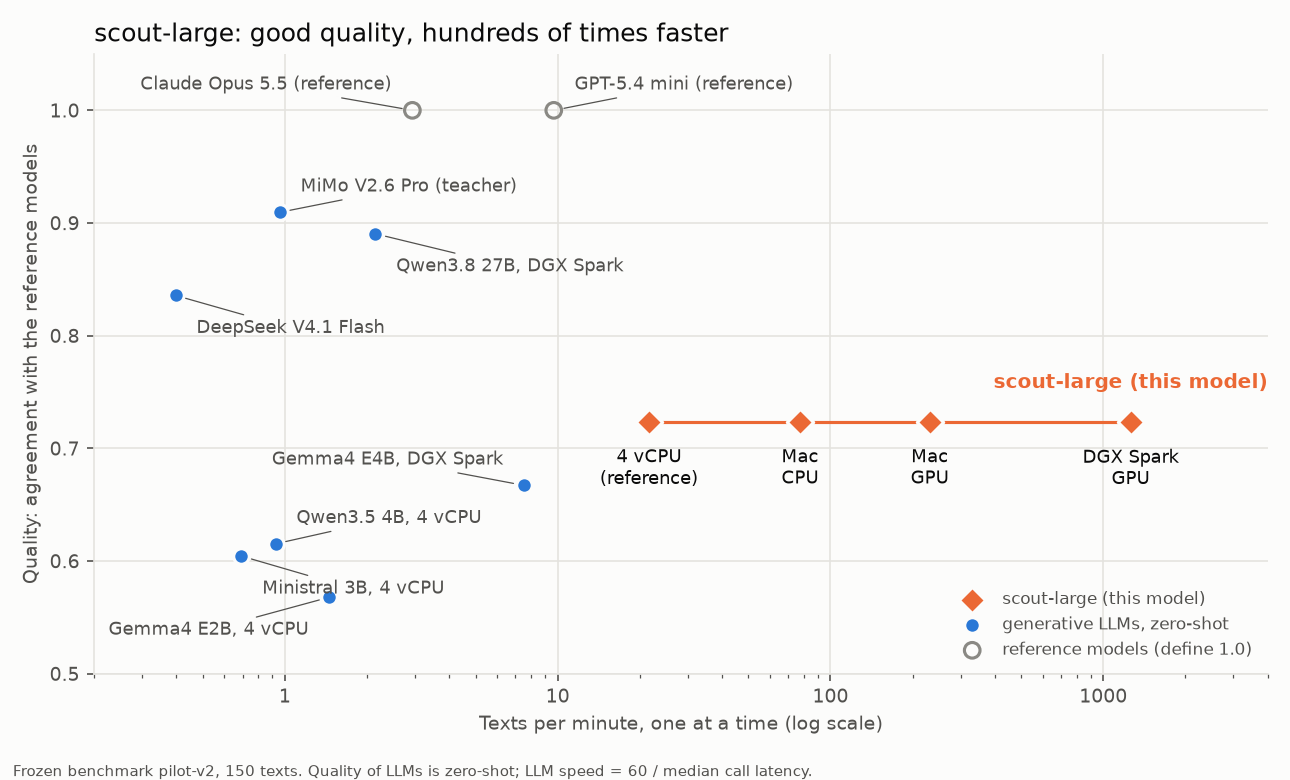
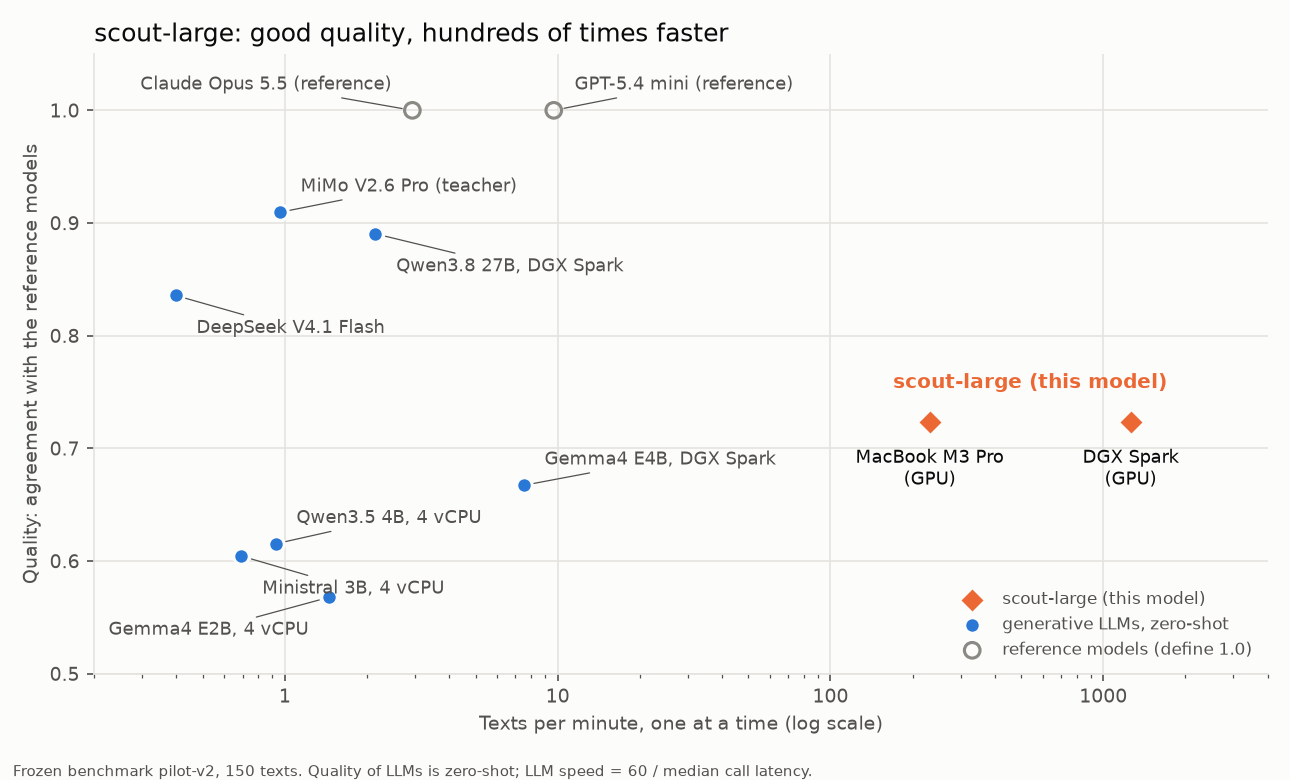
Quality-speed figure: scout-large as two GPU points (MacBook, DGX Spark), no line

Changed region(s): [[0.4341, 0.4615, 0.9922, 0.6154], [0.2171, 0.5846, 0.4031, 0.6154]]

diff --git a/scripts/span/comparisons.py b/scripts/span/comparisons.py
@@ -23,6 +23,7 @@ from __future__ import annotations
 
 import argparse
 import json
+import math
 import statistics
 from datetime import date
 from pathlib import Path
@@ -231,14 +232,14 @@ def figure_quality_speed(data: dict, out: Path) -> None:
     plain = FuncFormatter(lambda v, _: f"{v:g}")
     ax.xaxis.set_major_formatter(plain)
     items = []
-    scout = sorted(data["scout"], key=lambda s: s["chunks_per_min"])
-    ax.plot([s["chunks_per_min"] for s in scout], [s["quality"] for s in scout], color=SCOUT,
-            linewidth=1.5, zorder=2)
+    # Two points only (owner's choice, 2026-10-07): the GPUs a team is likely to use. The CPU
+    # measurements, including the reference machine, are in the 10,000-texts figure.
+    scout = sorted((s for s in data["scout"] if s["key"] in ("mac_m3pro_gpu", "dgx_spark_gpu")),
+                   key=lambda s: s["chunks_per_min"])
     ax.scatter([s["chunks_per_min"] for s in scout], [s["quality"] for s in scout], marker="D",
                s=80, color=SCOUT, edgecolors=SURFACE, linewidths=1.5, zorder=4,
                label="scout-large (this model)")
-    short = {"": "4 vCPU\n(reference)", "mac_m3pro_cpu": "Mac\nCPU", "mac_m3pro_gpu": "Mac\nGPU",
-             "dgx_spark_gpu": "DGX Spark\nGPU"}
+    short = {"mac_m3pro_gpu": "MacBook M3 Pro\n(GPU)", "dgx_spark_gpu": "DGX Spark\n(GPU)"}
     rated = [o for o in data["others"] if o["quality"] is not None]
     ax.scatter([o["chunks_per_min"] for o in rated], [o["quality"] for o in rated], s=56,
                color=OTHER, edgecolors=SURFACE, linewidths=1.5, zorder=3,
@@ -266,7 +267,8 @@ def figure_quality_speed(data: dict, out: Path) -> None:
                             textcoords="offset points", ha="center", va="top", fontsize=8.5,
                             color=TEXT_PRIMARY)
         boxes.append(label.get_window_extent(renderer).expanded(1.05, 1.1))
-    label = ax.annotate("scout-large (this model)", (scout[-1]["chunks_per_min"], scout[-1]["quality"]),
+    mid = math.sqrt(scout[0]["chunks_per_min"] * scout[-1]["chunks_per_min"])
+    label = ax.annotate("scout-large (this model)", (mid, scout[-1]["quality"]),
                         xytext=(0, 14), textcoords="offset points", ha="center", va="bottom",
                         fontsize=9.5, color=SCOUT, fontweight="bold")
     boxes.append(label.get_window_extent(renderer).expanded(1.05, 1.1))

diff --git a/reports/scout-large/model-card-preview-0.1.0.md b/reports/scout-large/model-card-preview-0.1.0.md
@@ -106,7 +106,7 @@ model-index:
 
 Finds jobs-to-be-done, pains and gains in German and English mobility texts and quotes them verbatim, with actor type, evidence type and evidence scope. On the frozen benchmark pilot-v2 (guideline v2) it reaches a comparison composite of 0.72, against 0.67 for the best zero-shot small model, measured as agreement with two frontier reference models (Claude and the GPT mini tier). It reads a 9,240-character interview in 8.1 s on 4 CPU cores with 2.5 GB of memory, in 0.84 s on the GPU of a MacBook M3 Pro and in 0.12 s on a DGX Spark, where it processes 1,260 texts per minute; the generative models of the pilot manage between 0.4 and 10 per minute.
 
-![Quality against texts per minute for scout-large on four machines and for the generative models of the pilot](https://raw.githubusercontent.com/mhabedank/mobility-model-zoo/refs/tags/scout-large/v0.1.0/docs/recipes/figures/scout-large-quality-speed.png)
+![Quality against texts per minute for scout-large on a MacBook GPU and a DGX Spark GPU and for the generative models of the pilot](https://raw.githubusercontent.com/mhabedank/mobility-model-zoo/refs/tags/scout-large/v0.1.0/docs/recipes/figures/scout-large-quality-speed.png)
 
 ![Time to process 10,000 texts for scout-large on four machines and for the generative models of the pilot](https://raw.githubusercontent.com/mhabedank/mobility-model-zoo/refs/tags/scout-large/v0.1.0/docs/recipes/figures/scout-large-10k-texts.png)
 
